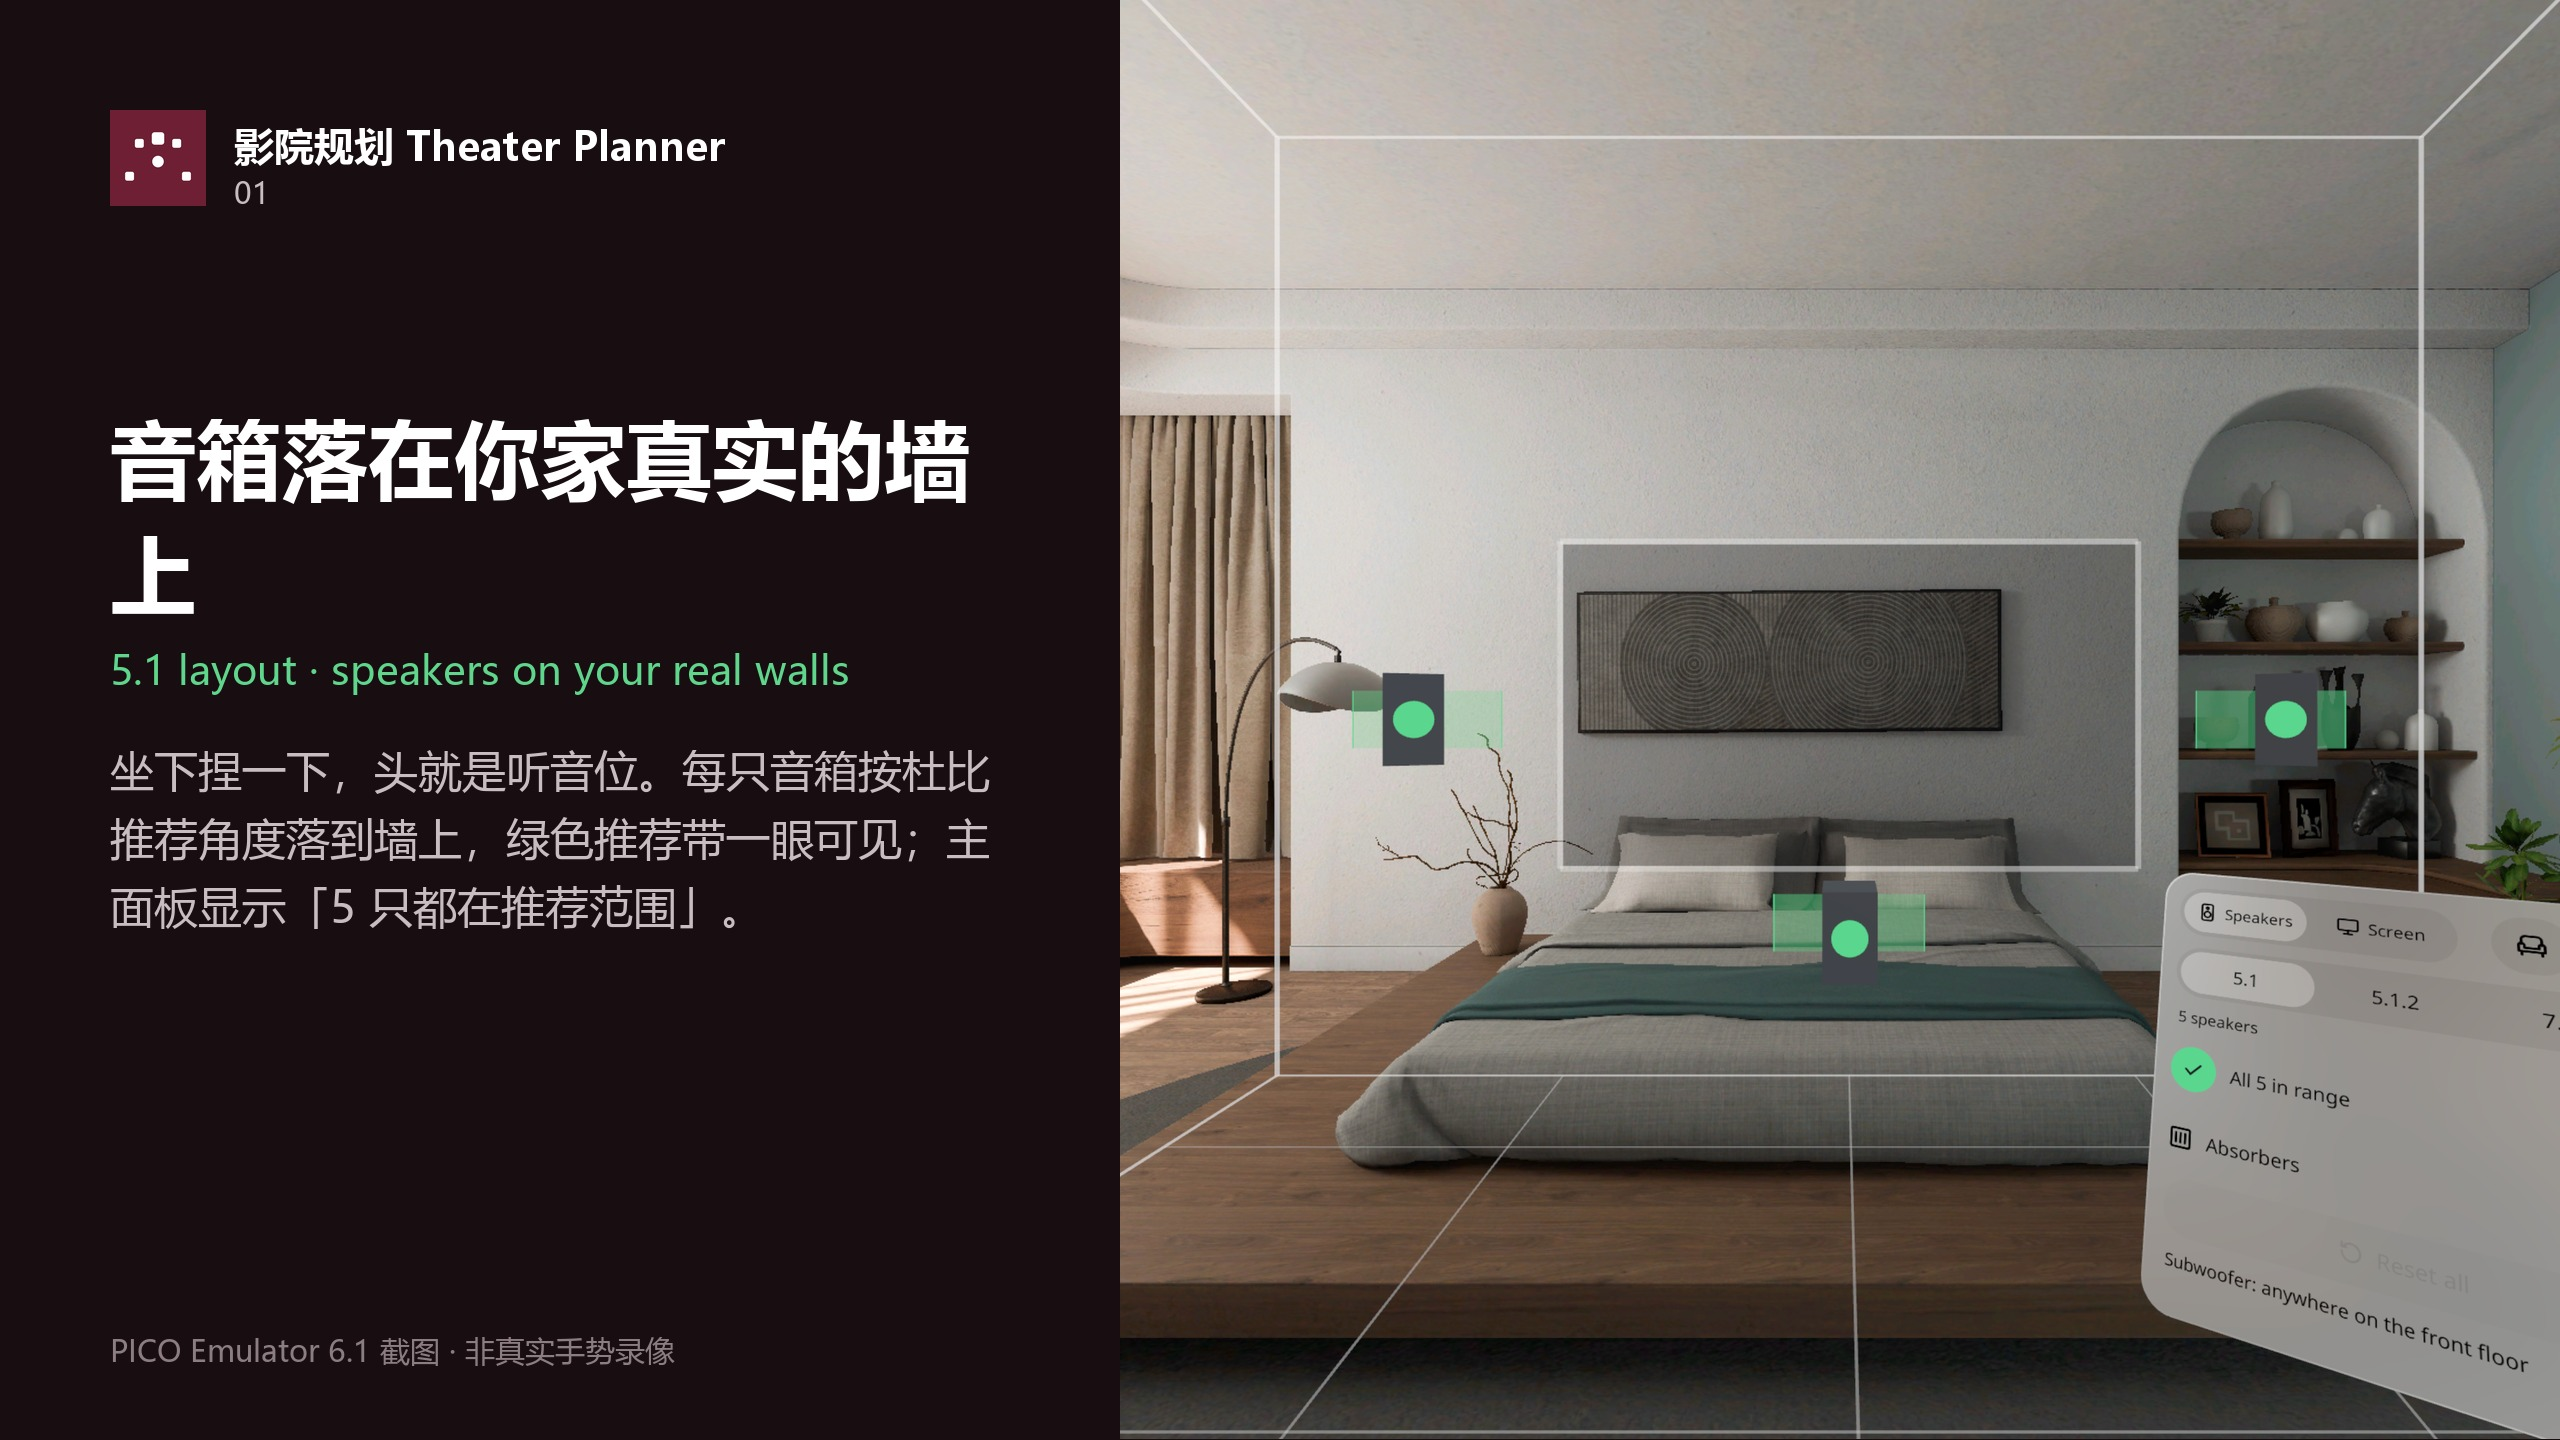
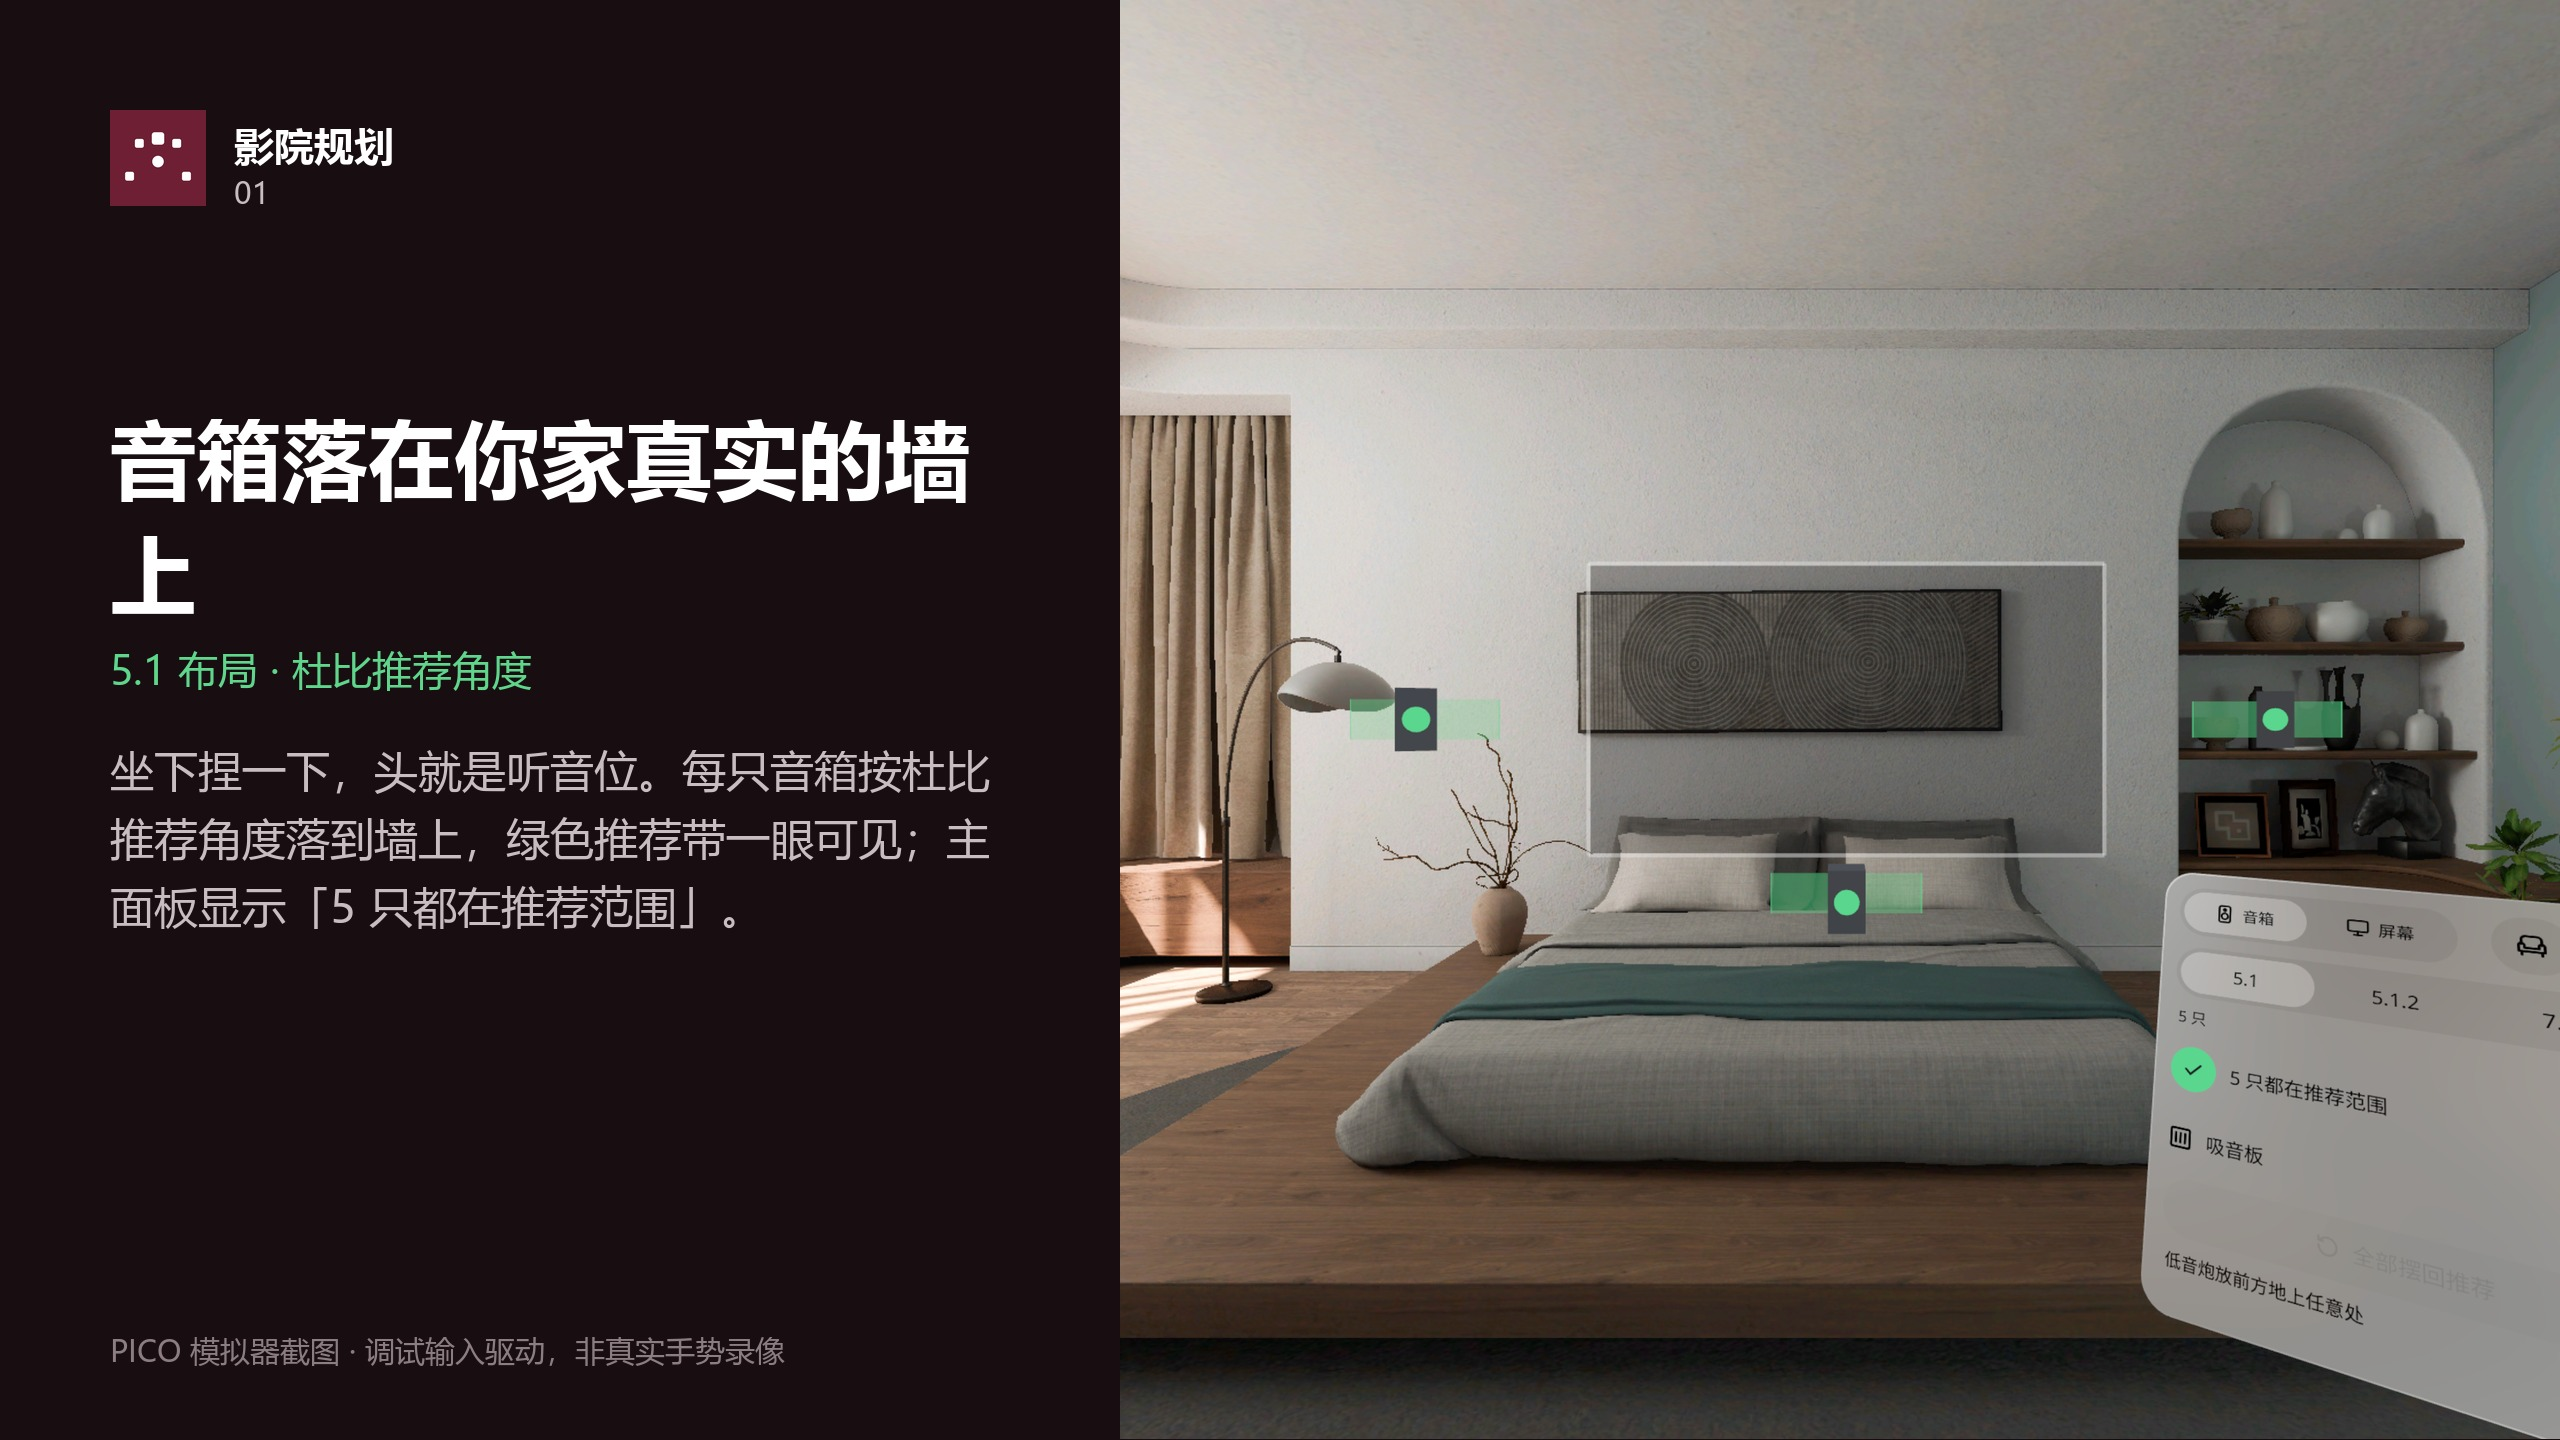
docs: Chinese-UI poster, detail shots and video cover for v0.1.3

diff --git a/README.md b/README.md
@@ -40,7 +40,7 @@ APK 在 [Releases](https://github.com/kejing-dev/TheaterPlanner/releases) 页面
 
 ### 截图
 
-v0.1.3 高清截图（PICO Emulator 6.1 · High Definition，2560×1440）：
+v0.1.3 高清截图（PICO 模拟器 6.1 高清模式，简体中文界面，2560×1440）：
 
 | | |
 |---|---|
